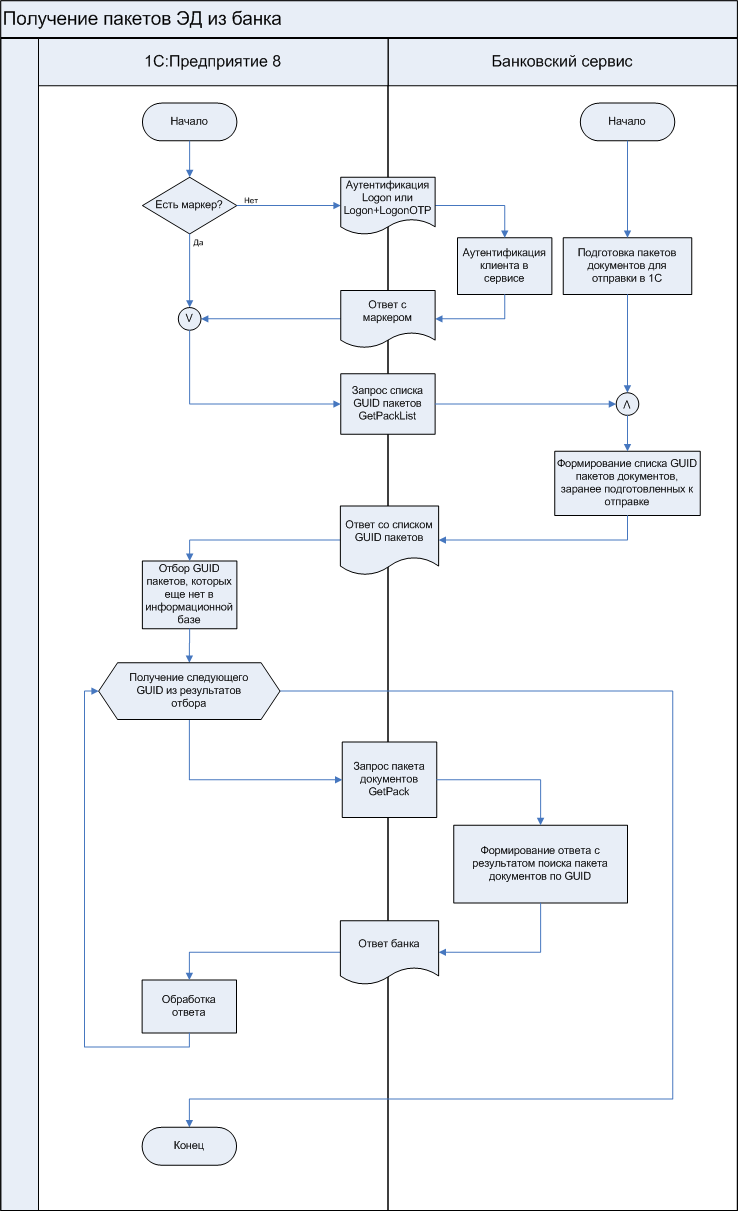
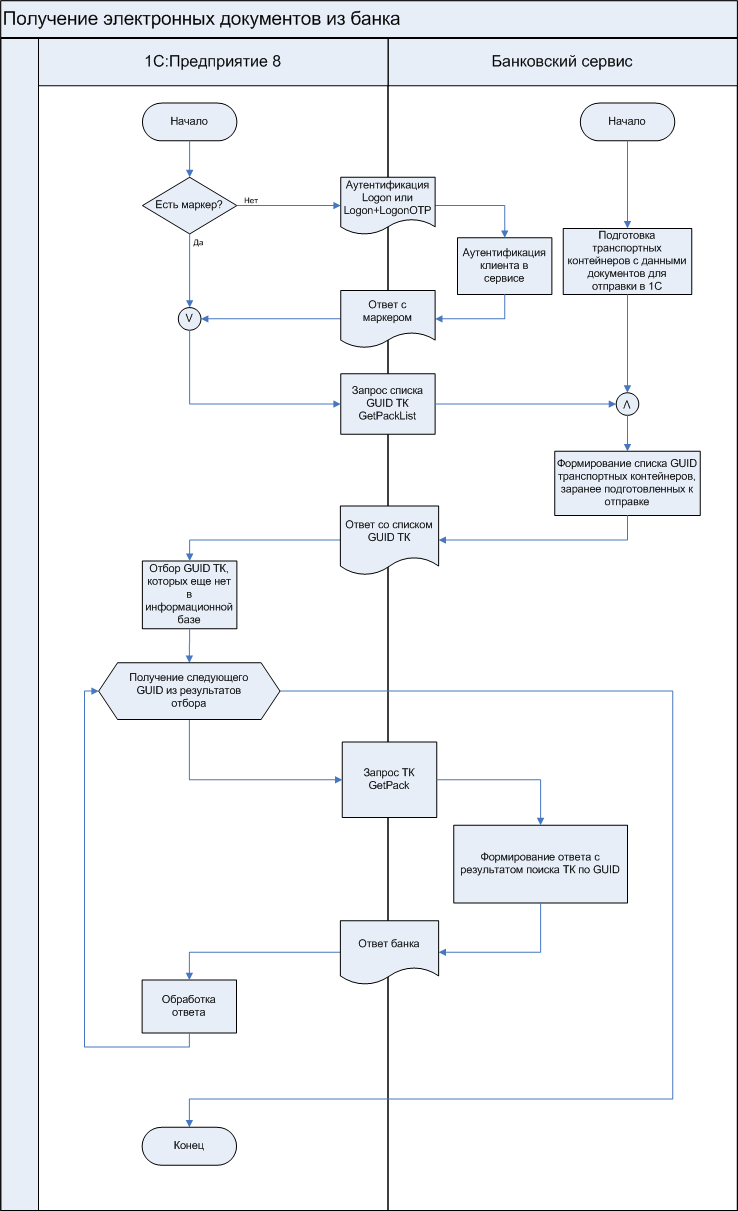
Версия 2.1.1 Приведение формулировки по тексту к единому виду, фраза "пакет данных" заменена на "транспортный контейнер"

diff --git a/doc/common-section/type-tables.md b/doc/common-section/type-tables.md
@@ -80,8 +80,8 @@
 | <a name="DocumentType"></a> DocumentType                           | [edo:DocumentType](#edo-DocumentType)                           | Данные электронного документа                                                                                                                             |
 | <a name="ErrorType"></a> ErrorType                                 | [edo:ErrorType](#edo-ErrorType)                                 | Ответ в случае возникновения ошибки                                                                                                                       |
 | <a name="FormatVersionType"></a> FormatVersionType                 | [string](#string) (до 12)                                       | Версия формата                                                                                                                                            |
-| <a name="GetPacketListResponseType"></a> GetPacketListResponseType | [edo:GetPacketListResponseType](#edo-GetPacketListResponseType) | Список ID пакетов, готовых к передачи клиенту                                                                                                             |
-| <a name="GetPacketResponse"></a> GetPacketResponse                 | [edo:Packet](#edo-Packet)                                       | Пакет электронных документов для получения клиентом                                                                                                       |
+| <a name="GetPacketListResponseType"></a> GetPacketListResponseType | [edo:GetPacketListResponseType](#edo-GetPacketListResponseType) | Список ID транспортных контейнеров, готовых к передачи клиенту                                                                                                             |
+| <a name="GetPacketResponse"></a> GetPacketResponse                 | [edo:Packet](#edo-Packet)                                       | Транспортный контейнер с данными электронных документов для получения клиентом                                                                                                       |
 | <a name="GetSettingsResponseType"></a> GetSettingsResponseType     | [edo:GetSettingsResponseType](#edo-GetSettingsResponseType)     | Получение настроек обмена в автоматическом режиме                                                                                                         |
 | <a name="IDCustomerType"></a> IDCustomerType                       | [string](#string) (от 1 до 50)                                  | Уникальный идентификатор клиента в банке                                                                                                                  |
 | <a name="IDType"></a> IDType                                       | [string](#string)                                               | Уникальный идентификатор                                                                                                                                  |
@@ -90,7 +90,7 @@
 | <a name="MemOrderApp"></a> MemOrderApp                 | [edo:MemOrderApp](#edo-MemOrderApp)                 | Данные мемориального ордера                                                                                                              |
 | <a name="OtherCustomerDetailsType"></a> OtherCustomerDetailsType                 | [edo:OtherCustomerDetailsType](#edo-OtherCustomerDetailsType)                 | Реквизиты прочих плательщиков                                                                                                              |
 | <a name="OtherPaymentDataType"></a> OtherPaymentDataType                 | [edo:OtherPaymentDataType](#edo-OtherPaymentDataType)                 | Реквизиты иных банковских документов                                                                                                              |
-| <a name="Packet"></a> Packet                                       | [edo:Packet](#edo-Packet)                                       | Пакет электронных документов                                                                                                                              |
+| <a name="Packet"></a> Packet                                       | [edo:Packet](#edo-Packet)                                       | Транспортный контейнер с данными электронных документов                                                                                                                              |
 | <a name="ParticipantType"></a> ParticipantType                     | [ edo:ParticipantType](#edo-ParticipantType)                    | Одна из сторон, принимающая участие в обмене электронными документами (Участник)                                                                          |
 | <a name="PayDocRuApp"></a> PayDocRuApp                             | [edo:PayDocRuApp](#edo-PayDocRuApp)                             | Данные платежного поручения                                                                                                                               |
 | <a name="PaymentDataType"></a> PaymentDataType                     | [edo:PaymentDataType](#edo-PaymentDataType)                     | Данные платежного документа                                                                                                                               |
@@ -98,7 +98,7 @@
 | <a name="PayRequestApp"></a> PayRequestApp                         | [edo:PayRequestApp](#edo-PayRequestApp)                         | Данные платежного требования                                                                                                                              |
 | <a name="ResultBank"></a> ResultBank                               | [edo:ResultBank](#edo-ResultBank)                               | Ответ банка                                                                                                                                               |
 | <a name="ResultStatusType"></a> ResultStatusType                   | [edo:ResultStatusType](#edo-ResultStatusType) (Выбор)           | Состояние электронного документа                                                                                                                          |
-| <a name="SendPacketResponseType"></a> SendPacketResponseType       | [edo:SendPacketResponseType](#edo-SendPacketResponseType)       | Отправка пакета в банк                                                                                                                                    |
+| <a name="SendPacketResponseType"></a> SendPacketResponseType       | [edo:SendPacketResponseType](#edo-SendPacketResponseType)       | Отправка транспортного контейнера в банк                                                                                                                                    |
 | <a name="StatementKindType"></a> StatementKindType                 | [string](#string) (1)                                           | Тип выписки банка <br> Доступные значения: 0, 1, 2. <br> • 0 - Окончательная выписка <br> • 1 - Промежуточная выписка <br> • 2 - Текущий остаток на счете |
 | <a name="StatusType"></a> StatusType                               | [edo:StatusType](#edo-StatusType)                               | Успешный ответ                                                                                                                                            |
 | <a name="SuccessResultType"></a> SuccessResultType                 | [edo:SuccessResultType](#edo-SuccessResultType)                 | Успешный ответ банка                                                                                                                                      |
@@ -288,7 +288,7 @@
 | Параметр            | Тип      | Кратность | Описание                                                            |
 |---------------------|----------|:---------:|---------------------------------------------------------------------|
 | TimeStampLastPacket | [dateTime](#dateTime) |   [0-1]   | Метка времени, на которую вернули всю актуальную информацию         |
-| PacketID            | [IDType](#IDType)   |   [0-n]   | Идентификатор пакета (GUID), по которому его можно получить клиенту |
+| PacketID            | [IDType](#IDType)   |   [0-n]   | Идентификатор транспортного контейнера (GUID), по которому его можно получить клиенту |
 
 ### <a name="edo-GetSettingsResponseType"></a> Тип edo:GetSettingsResponseType (*[1C-Bank_ResultBank.xsd](https://github.com/1C-Company/DirectBank/blob/master/doc/xsd-scheme/readme.md#1C-Bank_ResultBank)*)
 
@@ -370,7 +370,7 @@
 
 | Параметр      | Тип               | Кратность | Описание                        |
 |---------------|-------------------|:---------:|---------------------------------|
-| id            | [IDType](#IDType)            |    [1]    | Идентификатор пакета            |
+| id            | [IDType](#IDType)            |    [1]    | Идентификатор транспортного контейнера            |
 | formatVersion | [FormatVersionType](#FormatVersionType) |    [1]    | Версия формата                  |
 | creationDate  | [dateTime](#dateTime)          |    [1]    | Дата и время формирования       |
 | userAgent     | [UserAgentType](#UserAgentType)     |   [0-1]   | Наименование и версия программы |
@@ -382,7 +382,7 @@
 
 | Параметр | Тип               | Кратность | Описание             |
 |----------|-------------------|:---------:|----------------------|
-| Customer | [CustomerPartyType](#CustomerPartyType) |    выбор <br> [1]    | Идентификатор пакета |
+| Customer | [CustomerPartyType](#CustomerPartyType) |    выбор <br> [1]    | Идентификатор транспортного контейнера |
 | Bank     | [BankPartyType](#BankPartyType)     |    выбор <br> [1]    | Версия формата       |
 
 ### <a name="edo-PayDocRu"></a> Тип edo:PayDocRu (*[1C-Bank_PayDocRu.xsd](https://github.com/1C-Company/DirectBank/blob/master/doc/xsd-scheme/readme.md#1C-Bank_PayDocRu)*)
@@ -491,7 +491,7 @@
 
 | Параметр | Тип    | Кратность | Описание                                                               |
 |----------|--------|:---------:|------------------------------------------------------------------------|
-| ID       | [IDType](#IDType) |    [1]    | идентификатор пакета (GUID), который был ему назначен на стороне банка |
+| ID       | [IDType](#IDType) |    [1]    | идентификатор транспортного контейнера (GUID), который был ему назначен на стороне банка |
 
 ### <a name="edo-Settings"></a> Тип edo:Settings (*[1C-Bank_Settings.xsd](https://github.com/1C-Company/DirectBank/blob/master/doc/xsd-scheme/readme.md#1C-Bank_Settings)*)
 
@@ -714,9 +714,9 @@
 
 | Параметр              | Тип                       | Кратность | Описание                                            |
 |-----------------------|---------------------------|:---------:|-----------------------------------------------------|
-| SendPacketResponse    | [SendPacketResponseType](#SendPacketResponseType)    |    выбор <br> [1]    | Отправка пакета в банк                              |
-| GetPacketListResponse | [GetPacketListResponseType](#GetPacketListResponseType) |    выбор <br> [1]    | Список ID пакетов, готовых к передачи клиенту       |
-| GetPacketResponse     | [GetPacketResponseType](#GetPacketResponseType)     |    выбор <br> [1]    | Пакет электронных документов для получения клиентом |
+| SendPacketResponse    | [SendPacketResponseType](#SendPacketResponseType)    |    выбор <br> [1]    | Отправка транспортного контейнера в банк                              |
+| GetPacketListResponse | [GetPacketListResponseType](#GetPacketListResponseType) |    выбор <br> [1]    | Список ID транспортных контейнеров, готовых к передачи клиенту       |
+| GetPacketResponse     | [GetPacketResponseType](#GetPacketResponseType)     |    выбор <br> [1]    | Транспортный контейнер с данными электронных документов для получения клиентом |
 | LogonResponse         | [LogonResponseType](#LogonResponseType)         |    выбор <br> [1]    | Аутентификация по логину + ОТР (опционально)        |
 | LogonCertResponse     | [LogonCertResponseType](#LogonCertResponseType)     |    выбор <br> [1]    | Аутентификация по сертификату                       |
 | GetSettingsResponse   | [GetSettingsResponseType](#GetSettingsResponseType)       |    выбор <br> [1]    | Получение настроек обмена в автоматическом режиме   |

diff --git a/doc/transport-api/readme.md b/doc/transport-api/readme.md
@@ -659,20 +659,20 @@ Content-Length: 2145
 
 Отправка электронных документов из 1С выполняется в 3 этапа:
 
-- формирование пакета, содержащего электронные документы;
+- формирование транспортного контейнера, содержащего электронные документы;
 
 - аутентификация Клиента на стороне Банка (если нет ранее открытой сессии);
 
-- отправка пакета электронных документов в Банк и обработка ответа;
+- отправка транспортного контейнера в Банк и обработка ответа;
 
 
-![Отправка пакетов электронных документов из 1С в банковский сервис](https://raw.githubusercontent.com/1C-Company/DirectBank/master/doc/doc_imgs/Sending packages of electronic documents to the bank.png)
+![Отправка электронных документов из 1С в банковский сервис](https://raw.githubusercontent.com/1C-Company/DirectBank/master/doc/doc_imgs/Sending packages of electronic documents to the bank.png)
 
-При отправке пакетов электронных документов из 1С будут последовательно вызваны следующие методы банковского сервиса:
+При отправке электронных документов из 1С будут последовательно вызваны следующие методы банковского сервиса:
 - Аутентификация:
  -	Для аутентификации по логину и паролю, только [Logon](#1.2.1);
  -	Для аутентификации по логину и паролю с двухфакторной авторизацией — [Logon](#1.2.1), а затем — [LogonOTP](#1.2.2).
-- Отправка пакета электронных документов из 1С — [SendPack](#2.3.1).
+- Отправка транспортного контейнера с данными электронных документов из 1С — [SendPack](#2.3.1).
 
 
 ## <a name="2.3.1"></a> Метод SendPack (HTTP-метод POST)
@@ -724,7 +724,7 @@ Content-Length: 2145
 | CustomerID | [string](https://github.com/1C-Company/DirectBank/blob/master/doc/common-section/type-tables.md#string)            | [1]       | Уникальный идентификатор Клиента, содержащий только ANSI-символы |
 | SID        | [IDType](https://github.com/1C-Company/DirectBank/blob/master/doc/common-section/type-tables.md#IDType)            | [1]       | Идентификатор авторизованной сессии                              |
 | APIVersion | [FormatVersionType](https://github.com/1C-Company/DirectBank/blob/master/doc/common-section/type-tables.md#FormatVersionType) | [1]       | Версия API обмена данными                                        |
-| Packet     | [Packet](https://github.com/1C-Company/DirectBank/blob/master/doc/common-section/type-tables.md#Packet)            | [1]       | Пакет электронных документов                                     |
+| Packet     | [Packet](https://github.com/1C-Company/DirectBank/blob/master/doc/common-section/type-tables.md#Packet)            | [1]       | Транспортный контейнер с данными электронных документов                                     |
 
 
 
@@ -746,7 +746,7 @@ Content-Length: 2145
 
 - В «1С:Предприятии 8» формируется транспортный контейнер (XML-файл, соответствующий [XML-схеме транспортного контейнера](https://github.com/1C-Company/DirectBank/blob/master/doc/xsd-scheme/readme.md#1C-Bank_Packet)) с одним или несколькими электронными документами.
 
- - Если настройки обмена между Клиентом и Банком предусматривают сжатие данных, то электронные документы перед помещением в транспортный пакет сжимаются в формате zip-архива, который описан в открытой спецификации, доступной по адресу <http://www.pkware.com/documents/casestudies/APPNOTE.TXT>.
+ - Если настройки обмена между Клиентом и Банком предусматривают сжатие данных, то электронные документы перед помещением в транспортный контейнер сжимаются в формате zip-архива, который описан в открытой спецификации, доступной по адресу <http://www.pkware.com/documents/casestudies/APPNOTE.TXT>.
 
 - Далее проходит аутентификация на стороне Банка согласно протоколу, описанному в разделе «[Порядок взаимодействия на уровне аутентификации](#1)».
 
@@ -890,21 +890,21 @@ Content-Length: 145
 
 - аутентификация Клиента на стороне Банка (если нет ранее открытой сессии);
 
-- запрос у Банка списка подготовленных к передаче пакетов, содержащих электронные документы для Клиента;
+- запрос у Банка списка подготовленных к передаче транспортных контейнеров, содержащих электронные документы для Клиента;
 
-- запрос у Банка пакета электронных документов по его уникальному идентификатору и разбор в 1С.
+- запрос у Банка транспортного контейнера по его уникальному идентификатору и разбор в 1С.
 
 
-![Получение пакетов электронных документов из банковского сервиса в 1С](https://raw.githubusercontent.com/1C-Company/DirectBank/master/doc/doc_imgs/Receive packages of electronic documents from the bank.png)
+![Получение электронных документов из банковского сервиса в 1С](https://raw.githubusercontent.com/1C-Company/DirectBank/master/doc/doc_imgs/Receive packages of electronic documents from the bank.png)
 
-При получении пакетов электронных документов из банковского сервиса в 1С будут последовательно вызваны следующие методы:
+При получении электронных документов из банковского сервиса в 1С будут последовательно вызваны следующие методы:
 - Аутентификация:
  - Для аутентификации по логину и паролю, только [Logon](#1.2.1);
  - Для аутентификации по логину и паролю с двухфакторной авторизацией — [Logon](#1.2.1), а затем — [LogonOTP](#1.2.2).
-- Запрос на получение списка GUID пакетов, готовых к отправке клиенту банком, — [GetPackList](#2.4.1).
-- В цикле запрос на получение пакета документов по GUID из ранее полученного списка [GetPack](#2.4.1)
+- Запрос на получение списка GUID транспортных контейнеров, готовых к отправке клиенту банком, — [GetPackList](#2.4.1).
+- В цикле запрос на получение транспортного контейнера по GUID из ранее полученного списка [GetPack](#2.4.1)
 
-Если после получения и разбора всех пакетов документов из списка 1С не находит нужный пакет, процесс будет начат заново. Это происходит при ожидании получения выписки банка.
+Если после получения и разбора всех контейнеров из списка, 1С не находит нужный контейнер, процесс будет начат заново. Это происходит при ожидании получения выписки банка.
 
 
 ## <a name="2.4.1"></a> Метод GetPackList (HTTP-метод GET)
@@ -1224,19 +1224,19 @@ Content-Length: 2502
 
 ### <a name="2.5"></a> Процедура синхронизации 1С с банковским сервисом
 
-При синхронизации 1С с банковским сервисом последовательно выполняются процедуры отправки всех подготовленных в 1С пакетов документов в банк и получения всех пакетов документов из банка.
+При синхронизации 1С с банковским сервисом последовательно выполняются процедуры отправки всех подготовленных в 1С транспортных контейнеров с данными электронных документов в банк и получения всех транспортных контейнеров документов из банка.
 
-[Процедура отправки в банк](#2.3) выполняется в цикле. Для каждого подготовленного к отправке пакета будут вызваны следующие методы:
+[Процедура отправки в банк](#2.3) выполняется в цикле. Для каждого подготовленного к отправке транспортного контейнера будут вызваны следующие методы:
 - Аутентификация:
  -	Для аутентификации по логину и паролю, только [Logon](#1.2.1);
  -	Для аутентификации по логину и паролю с двухфакторной авторизацией — [Logon](#1.2.1), а затем — [LogonOTP](#1.2.2).
-- Отправка пакета электронных документов из 1С — [SendPack](#2.3.1).
+- Отправка транспортного контейнера с данными электронных документов из 1С — [SendPack](#2.3.1).
 
 
-При [получении пакетов электронных документов из банковского сервиса в 1С](#2.4) будут последовательно вызваны следующие методы:
+При [получении электронных документов из банковского сервиса в 1С](#2.4) будут последовательно вызваны следующие методы:
 - Аутентификация:
  - Для аутентификации по логину и паролю, только [Logon](#1.2.1);
  - Для аутентификации по логину и паролю с двухфакторной авторизацией — [Logon](#1.2.1), а затем — [LogonOTP](#1.2.2).
-- Запрос на получение списка GUID пакетов, готовых к отправке клиенту банком, — [GetPackList](#2.4.1).
-- Для каждого GUID из ранее полученного списка запрос на получение пакета документов — [GetPack](#2.4.1).
+- Запрос на получение списка GUID транспортных контейнеров, готовых к отправке клиенту банком — [GetPackList](#2.4.1).
+- Для каждого GUID из ранее полученного списка запрос на получение транспортного контейнера — [GetPack](#2.4.1).
 

diff --git a/doc/common-section/tables.md b/doc/common-section/tables.md
@@ -93,7 +93,7 @@
 | 1203                                                | Доступ к сервису временно заблокирован               | Доступ к сервису для данного пользователя заблокирован до <ХХ> ч по причине <Причина блокировки>            |
 | 1204                                                | Некорректный ОТР                                     | Введен неверный одноразовый пароль для указанной сессии                                                     |
 | 1205                                                | Услуга не доступна                                   | Услуга не подключена на стороне банка. Обратитесь в обслуживающее подразделение Банка                       |
-| Раздел 20. Ошибки обработки транспортного пакета                                                                                                             |
+| Раздел 20. Ошибки обработки транспортного контейнера                                                                                                             |
 | 2001                                                | Некорректный формат транспортного контейнера         | Формат транспортного контейнера не соответствует XML-схеме стандарта                                        |
 | 2002                                                | Дубль транспортного контейнера                       | Транспортный контейнер с таким идентификатором уже был ранее получен сервисом                               |
 | 2003                                                | Недопустимый размер транспортного контейнера         | Размер транспортного контейнера не соответствует допустимому диапазону от 0 до  < NNN >                        |
@@ -109,7 +109,7 @@
 | 2013                                                | Отсутствует электронная подпись                      | В транспортном контейнере отсутствует электронная подпись                                                   |
 | 2014                                                | Некорректная электронная подпись                     | В транспортном контейнере содержится невалидная электронная подпись (нарушена целостность)                  |
 | 2015                                                | Невозможно проверить электронную подпись             | Некорректный формат электронной подписи в транспортном контейнере                                           |
-| Раздел 21. Ошибки запроса транспортного пакета
+| Раздел 21. Ошибки запроса транспортного контейнера
 | 2101                                                | Некорректный формат отметки времени                  | Формат отметки времени списка транспортных контейнеров не поддерживается сервисом                           |
 | 2102                                                | Транспортный контейнер не найден                     | Транспортный контейнер с указанным идентификатором не найден на сервисе                                     |
 | Раздел 22. Ошибки обработки электронных документов
